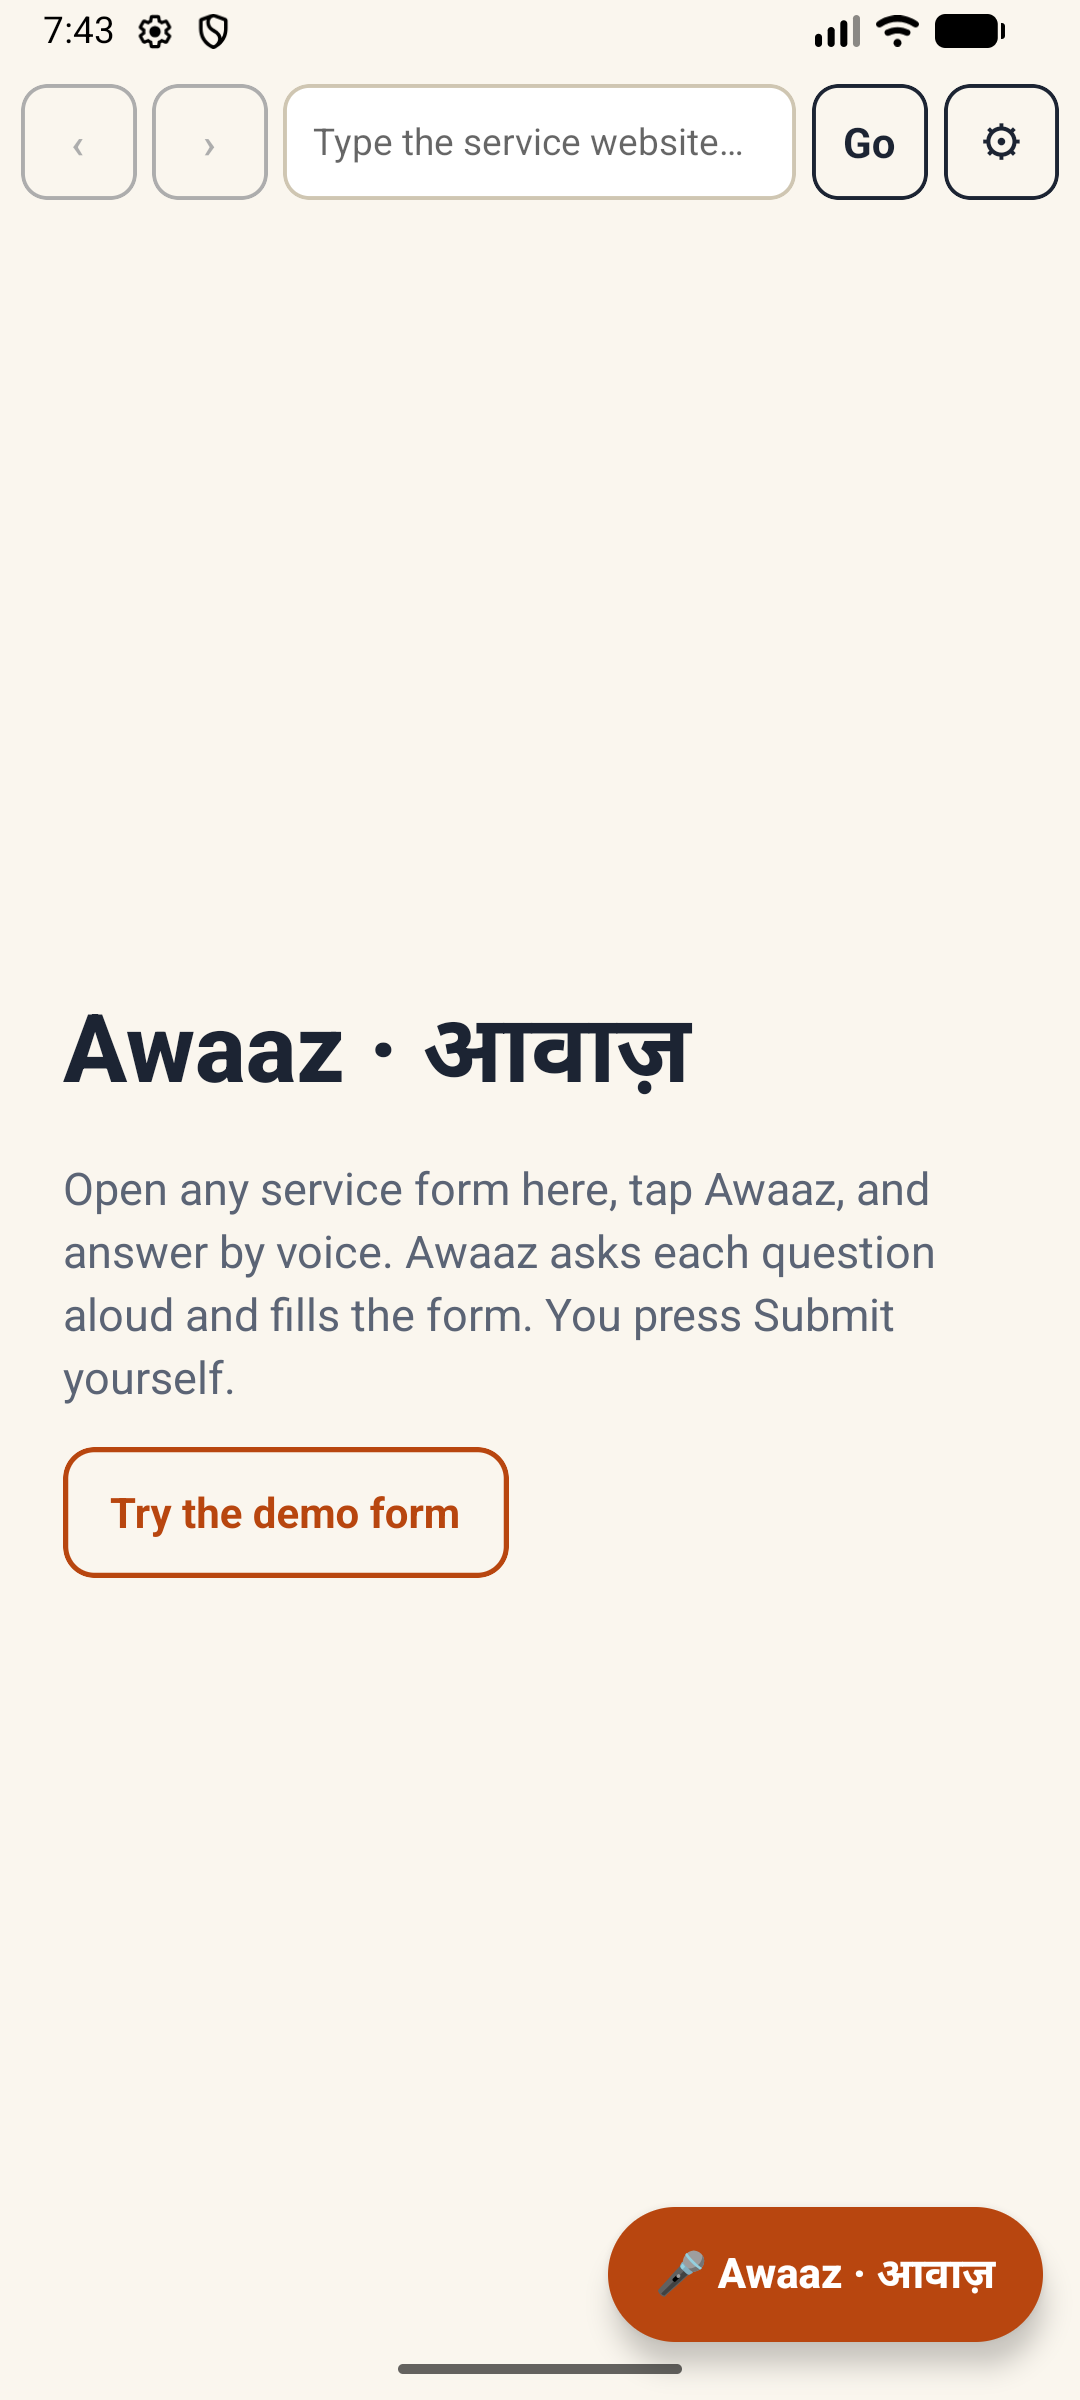
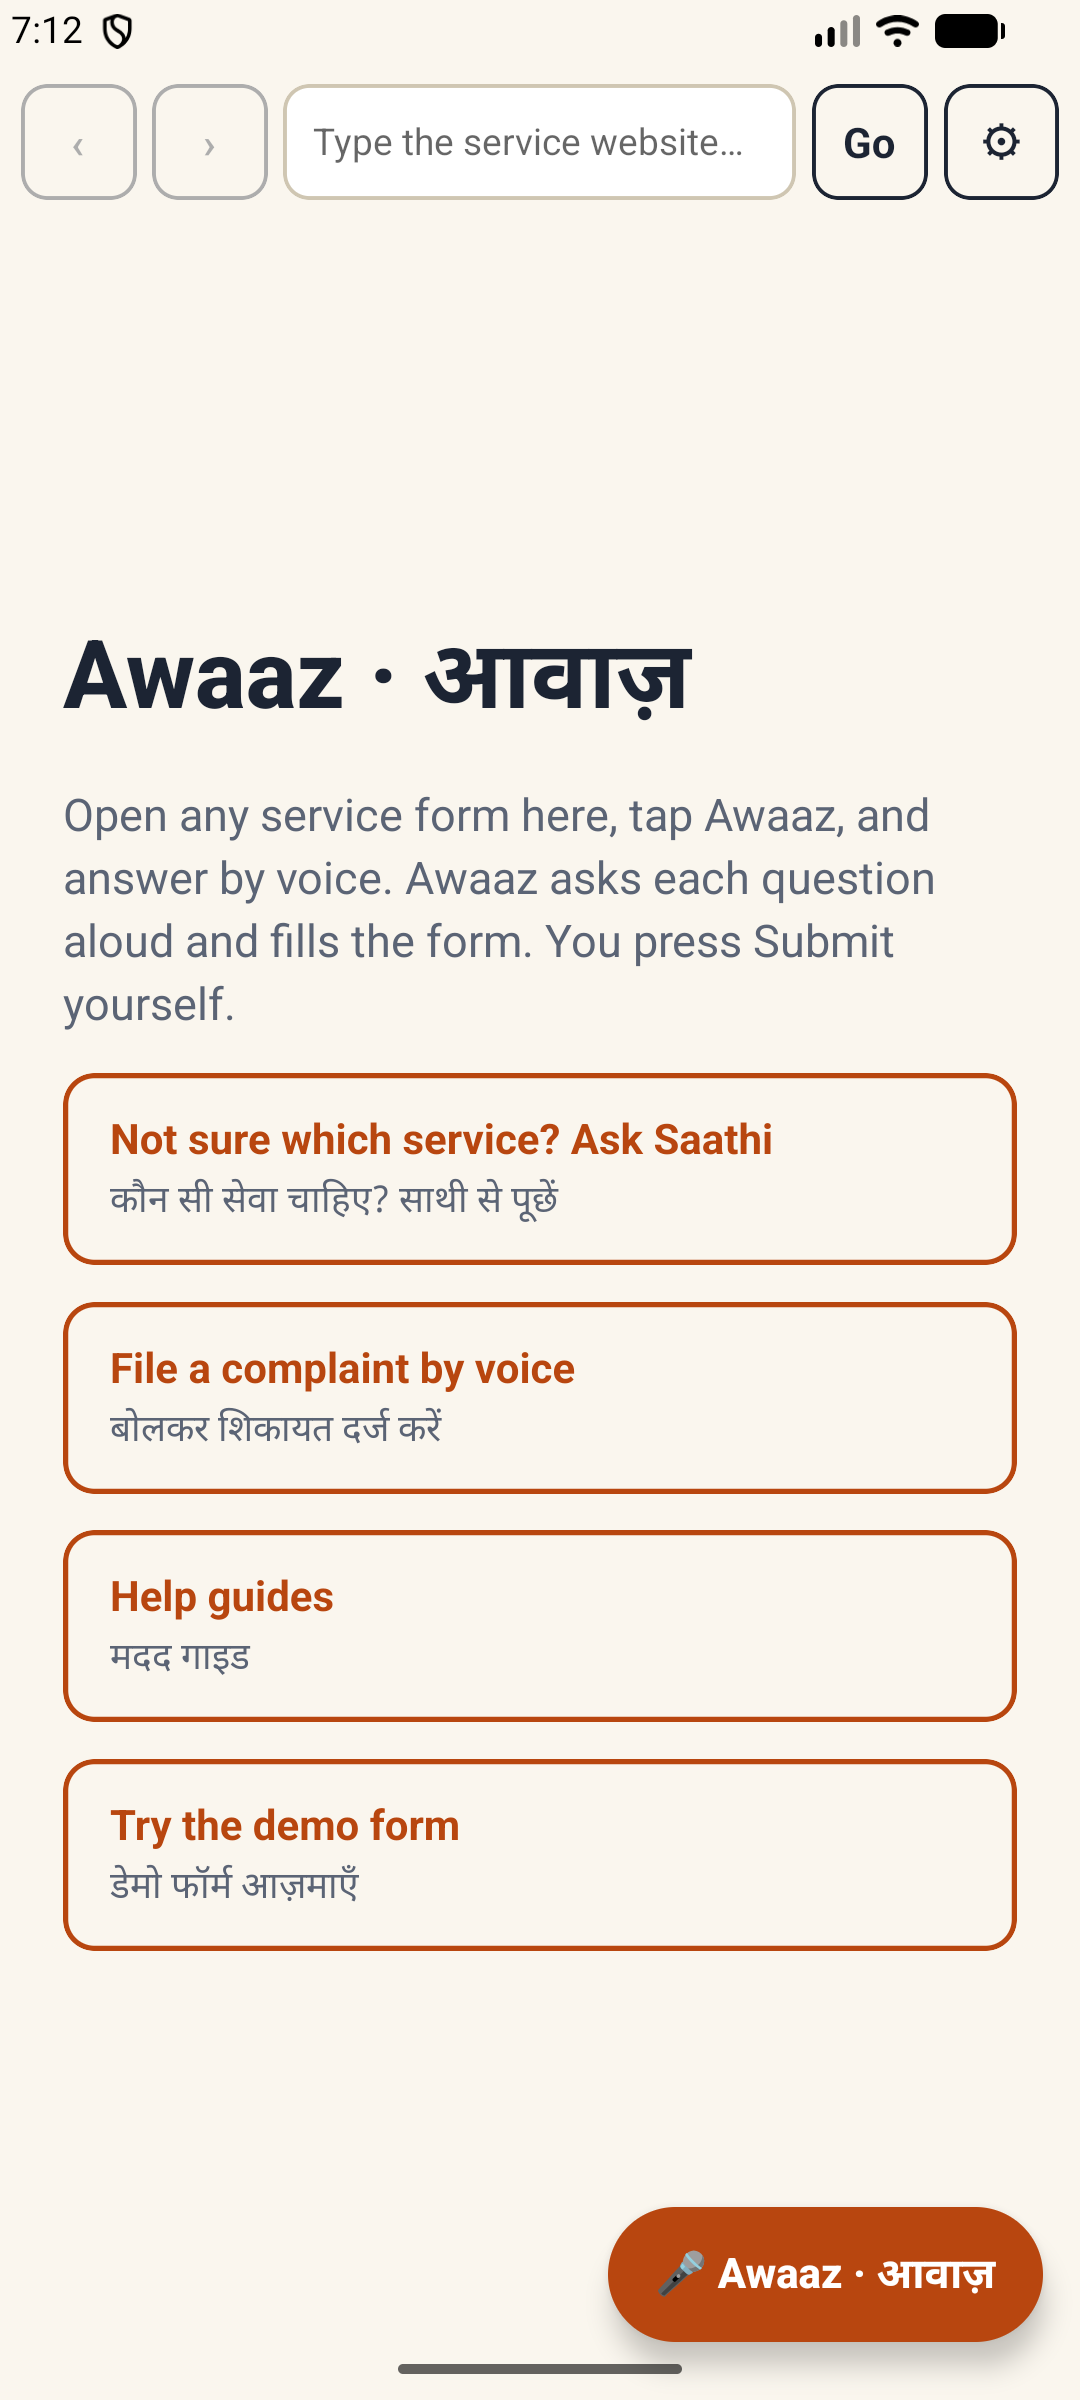
Security headers, 404 and error pages, CI; app home shortcuts; Play submission checklist and screenshots

diff --git a/mobile/App.tsx b/mobile/App.tsx
@@ -23,6 +23,13 @@ const WebView = RNWebView as unknown as ComponentType<WebViewProps & { ref?: Ref
 /** Emulator default (Android maps the host machine to 10.0.2.2). Real devices need your deployed HTTPS address. */
 // Release builds talk to the live server; the emulator address is for development only.
 const DEFAULT_API_BASE = process.env.EXPO_PUBLIC_API_BASE ?? (__DEV__ ? 'http://10.0.2.2:3000' : 'https://www.awaaz.help')
+/** Home screen shortcuts: pages of the Awaaz site, opened in the built-in browser. */
+const SHORTCUTS = [
+  { path: '/saathi', en: 'Not sure which service? Ask Saathi', hi: 'कौन सी सेवा चाहिए? साथी से पूछें' },
+  { path: '/grievance', en: 'File a complaint by voice', hi: 'बोलकर शिकायत दर्ज करें' },
+  { path: '/help', en: 'Help guides', hi: 'मदद गाइड' },
+  { path: '/demo-form', en: 'Try the demo form', hi: 'डेमो फॉर्म आज़माएँ' },
+] as const
 const ARM_TIMEOUT_MS = 10 * 60 * 1000
 
 /** Runs before page scripts: lets the overlay find the native bridge. */
@@ -210,16 +217,21 @@ function Browser() {
           <Text style={styles.lede}>
             Open any service form here, tap Awaaz, and answer by voice. Awaaz asks each question aloud and fills the form. You press Submit yourself.
           </Text>
-          <Pressable
-            style={styles.chip}
-            accessibilityRole="button"
-            onPress={() => {
-              setAddress(`${apiBase}/demo-form`)
-              setUri(`${apiBase}/demo-form`)
-            }}
-          >
-            <Text style={styles.chipText}>Try the demo form</Text>
-          </Pressable>
+          {SHORTCUTS.map((item) => (
+            <Pressable
+              key={item.path}
+              style={styles.chip}
+              accessibilityRole="button"
+              accessibilityLabel={item.en}
+              onPress={() => {
+                setAddress(`${apiBase}${item.path}`)
+                setUri(`${apiBase}${item.path}`)
+              }}
+            >
+              <Text style={styles.chipText}>{item.en}</Text>
+              <Text style={styles.chipHi}>{item.hi}</Text>
+            </Pressable>
+          ))}
         </View>
       )}
 
@@ -266,8 +278,9 @@ const styles = StyleSheet.create({
   home: { flex: 1, padding: 24, gap: 14, justifyContent: 'center' },
   title: { fontSize: 36, fontWeight: '800', color: INK },
   lede: { fontSize: 17, color: '#5b6475', lineHeight: 24 },
-  chip: { alignSelf: 'flex-start', paddingHorizontal: 16, paddingVertical: 12, borderRadius: 12, borderWidth: 2, borderColor: ACCENT },
+  chip: { alignSelf: 'stretch', paddingHorizontal: 16, paddingVertical: 12, borderRadius: 12, borderWidth: 2, borderColor: ACCENT },
   chipText: { color: ACCENT, fontWeight: '700', fontSize: 16 },
+  chipHi: { color: '#5b6475', fontSize: 14, marginTop: 2 },
   fab: { position: 'absolute', right: 14, bottom: 22, backgroundColor: ACCENT, paddingHorizontal: 18, paddingVertical: 14, borderRadius: 28, elevation: 6 },
   fabText: { color: '#fff', fontWeight: '800', fontSize: 16 },
 })

diff --git a/next.config.ts b/next.config.ts
@@ -1,7 +1,39 @@
 import type { NextConfig } from 'next'
 
+// Content-Security-Policy. Next.js needs inline scripts and styles; the on-device photo model needs WebAssembly and downloads
+// from Hugging Face; everything else is same-origin. No framing, no plugins, no foreign form posts.
+const csp = [
+  "default-src 'self'",
+  "script-src 'self' 'unsafe-inline' 'wasm-unsafe-eval'",
+  "style-src 'self' 'unsafe-inline'",
+  "img-src 'self' data: blob:",
+  "font-src 'self' data:",
+  "connect-src 'self' https://huggingface.co https://*.huggingface.co https://*.hf.co",
+  "worker-src 'self' blob:",
+  "media-src 'self' blob:",
+  "object-src 'none'",
+  "base-uri 'self'",
+  "form-action 'self'",
+  "frame-ancestors 'none'",
+  'upgrade-insecure-requests',
+].join('; ')
+
+const securityHeaders = [
+  { key: 'Content-Security-Policy', value: csp },
+  { key: 'X-Content-Type-Options', value: 'nosniff' },
+  { key: 'X-Frame-Options', value: 'DENY' },
+  { key: 'Referrer-Policy', value: 'strict-origin-when-cross-origin' },
+  // Camera and geolocation only when the person taps; the microphone is needed for voice. No payment or USB access.
+  { key: 'Permissions-Policy', value: 'camera=(self), geolocation=(self), microphone=(self), payment=(), usb=()' },
+  { key: 'Cross-Origin-Opener-Policy', value: 'same-origin' },
+]
+
 const nextConfig: NextConfig = {
   reactStrictMode: true,
+  poweredByHeader: false,
+  async headers() {
+    return [{ source: '/:path*', headers: securityHeaders }]
+  },
 }
 
 export default nextConfig

diff --git a/src/app/not-found.tsx b/src/app/not-found.tsx
@@ -1,0 +1,19 @@
+import Link from 'next/link'
+
+export const metadata = { title: 'Page not found', robots: { index: false } }
+
+export default function NotFound() {
+  return (
+    <main>
+      <header className="hero">
+        <p className="eyebrow">404</p>
+        <h1>This page does not exist</h1>
+        <p className="lede">The link may be old or mistyped. यह पेज नहीं मिला। लिंक पुराना या ग़लत हो सकता है।</p>
+        <div className="cta-row">
+          <Link className="cta cta-primary" href="/">Go to home · होम पर जाएँ</Link>
+          <Link className="cta cta-ghost" href="/saathi">Ask Saathi · साथी से पूछें</Link>
+        </div>
+      </header>
+    </main>
+  )
+}

diff --git a/src/app/error.tsx b/src/app/error.tsx
@@ -1,0 +1,16 @@
+'use client'
+
+export default function ErrorPage({ reset }: { error: Error; reset: () => void }) {
+  return (
+    <main>
+      <header className="hero">
+        <p className="eyebrow">Error</p>
+        <h1>Something went wrong</h1>
+        <p className="lede">Please try again. कुछ गड़बड़ हो गई, कृपया फिर कोशिश करें।</p>
+        <div className="cta-row">
+          <button type="button" className="cta cta-primary" onClick={reset}>Try again · फिर कोशिश करें</button>
+        </div>
+      </header>
+    </main>
+  )
+}

diff --git a/src/app/grievance/page.tsx b/src/app/grievance/page.tsx
@@ -11,7 +11,7 @@ export default function GrievancePage() {
   return (
     <main>
       <header className="hero">
-        <p className="eyebrow">Demo · Grievance filing</p>
+        <p className="eyebrow">Grievance filing · शिकायत दर्ज करें</p>
         <h1>File a complaint by voice</h1>
         <p className="lede">
           No forms. Speak your problem in your own language and we turn it into a complaint you can track.

diff --git a/src/app/globals.css b/src/app/globals.css
@@ -184,3 +184,4 @@ label.inline input { width: auto; }
 .site-logo-hi { font-weight: 600; color: var(--muted); }
 .site-header nav { display: flex; gap: 16px; font-weight: 600; font-size: 15px; }
 .site-header nav a { color: var(--accent); text-underline-offset: 3px; }
+.eyebrow a { color: inherit; text-underline-offset: 3px; }

diff --git a/store/play/SUBMISSION_CHECKLIST.md b/store/play/SUBMISSION_CHECKLIST.md
@@ -1,0 +1,50 @@
+# Play Console submission checklist
+
+Tick each line in Play Console in this order. "Ready" means the text or file exists in this repo; "You" means only you can do it.
+
+## 1. Account (You)
+- [ ] Play developer account, US$25 one time, identity verified.
+- [ ] Developer contact: a public email and phone for the store page (Play shows the email).
+- [ ] Organisation or personal account decided. Personal accounts created after Nov 2023 must run a closed test (12+ testers, 14 days) before production. Confirm the current rule in Console.
+
+## 2. Create the app
+- [ ] Name `Awaaz: Voice Form Filler`, language English (India), App, Free. (Ready: `LISTING.md`)
+- [ ] Declarations: not a game, no ads, no in-app purchases.
+
+## 3. Policy pages (Main store listing and App content)
+- [ ] Privacy policy URL: https://www.awaaz.help/privacy (Ready, live)
+- [ ] App access: no login needed, nothing to provide.
+- [ ] Ads: No.
+- [ ] Content rating questionnaire. (Ready: answers in `DATA_SAFETY.md`)
+- [ ] Target audience: 18 and over.
+- [ ] Data safety form. (Ready: `DATA_SAFETY.md`; you are responsible for the final answers)
+- [ ] Government apps declaration: answer that the app is not published by or for a government. Awaaz says on the site and in the listing that it is independent.
+- [ ] Financial features: none. Health apps: not a health app (it links to a government telemedicine site; it gives no medical advice).
+- [ ] News app: No. Advertising ID: not used (no ad SDK).
+
+## 4. Store listing
+- [ ] Short and full description, English and Hindi. (Ready: `LISTING.md`)
+- [ ] App icon 512x512. (Ready: `assets/app-icon-512.png`)
+- [ ] Feature graphic 1024x500. (Ready: `assets/feature-graphic-1024x500.png`)
+- [ ] Phone screenshots, 2 to 8. (Ready: `assets/phone-*.png`, taken from the release build)
+- [ ] Optional: 7-inch and 10-inch tablet screenshots. Not made. Skip unless you want tablet placement.
+- [ ] Category: Tools. Tags: pick from the list Play offers.
+- [ ] Website https://www.awaaz.help and the contact email.
+
+## 5. Release
+- [ ] Testing, Internal testing: upload `release/awaaz-1.0.0.aab`, add yourself as tester, install from the Play link on a real phone, test mic, form fill, complaint, photo.
+- [ ] Accept Play App Signing (the `.jks` in `mobile/android/keystore/` is only the upload key). Back that file up first.
+- [ ] Check the pre-launch report for crashes and accessibility warnings.
+- [ ] Closed testing (12+ testers, 14 days if required), then Production.
+- [ ] Release notes (en-IN): `First release. Speak instead of typing: fill government forms by voice, ask Saathi which service you need, and file a complaint with a tracking ID.`
+- [ ] Countries: India first.
+
+## 6. After release
+- [ ] Raise `versionCode` in `mobile/android/app/build.gradle` and `mobile/app.json` for every update.
+- [ ] Rebuild with the command in `RELEASE.md`.
+- [ ] Replace the "not on the Play Store" sentence on `/install` with the Play link once it is live. (Not done on purpose: the link does not exist yet.)
+
+## Likely review questions and answers
+- "Why microphone?" Speech input, only while the user taps the mic. Audio is not stored; the speech service of the device returns text.
+- "Is this a WebView wrapper?" The app has native speech recognition and text-to-speech bridged into the pages, a built-in browser that fills forms, and consent screens in native code. Ask the reviewer to try the voice form fill.
+- "Government impersonation?" Independent project. No government logo or name in the icon, title or screenshots.
